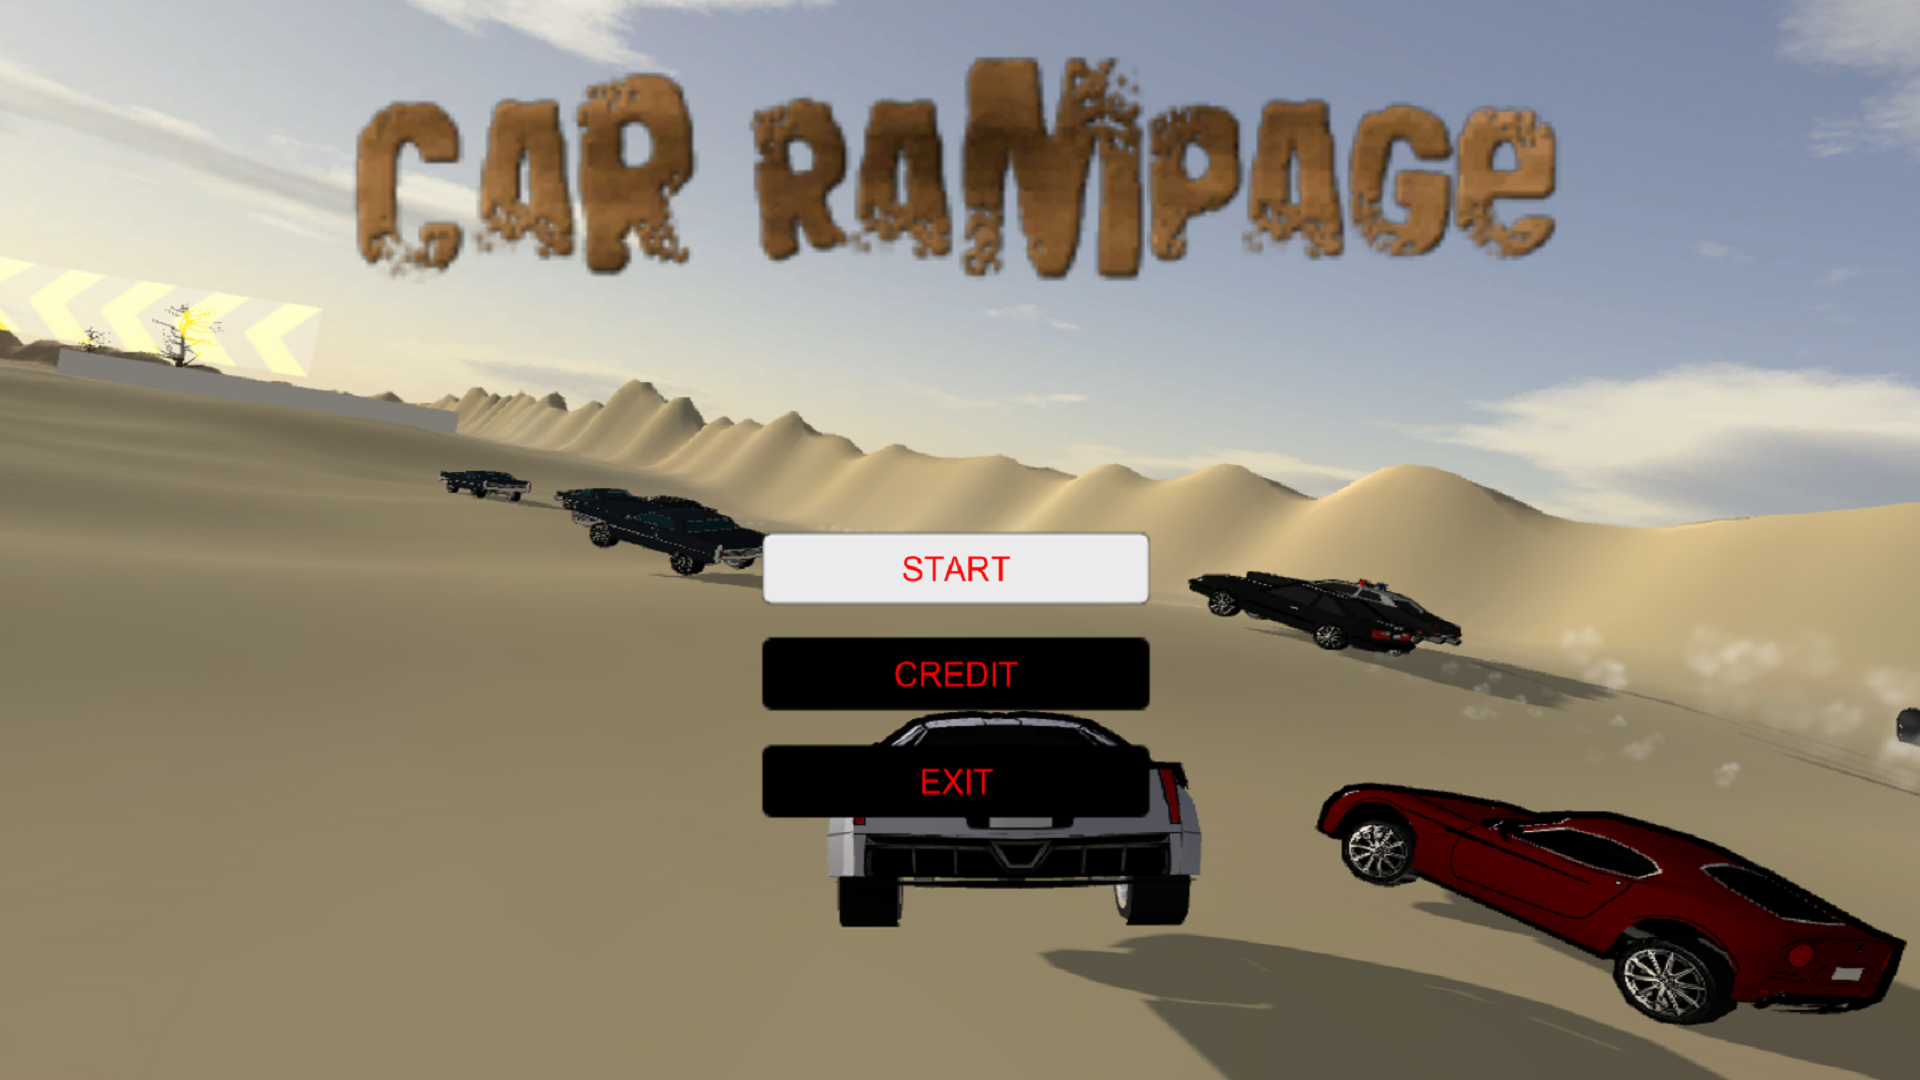
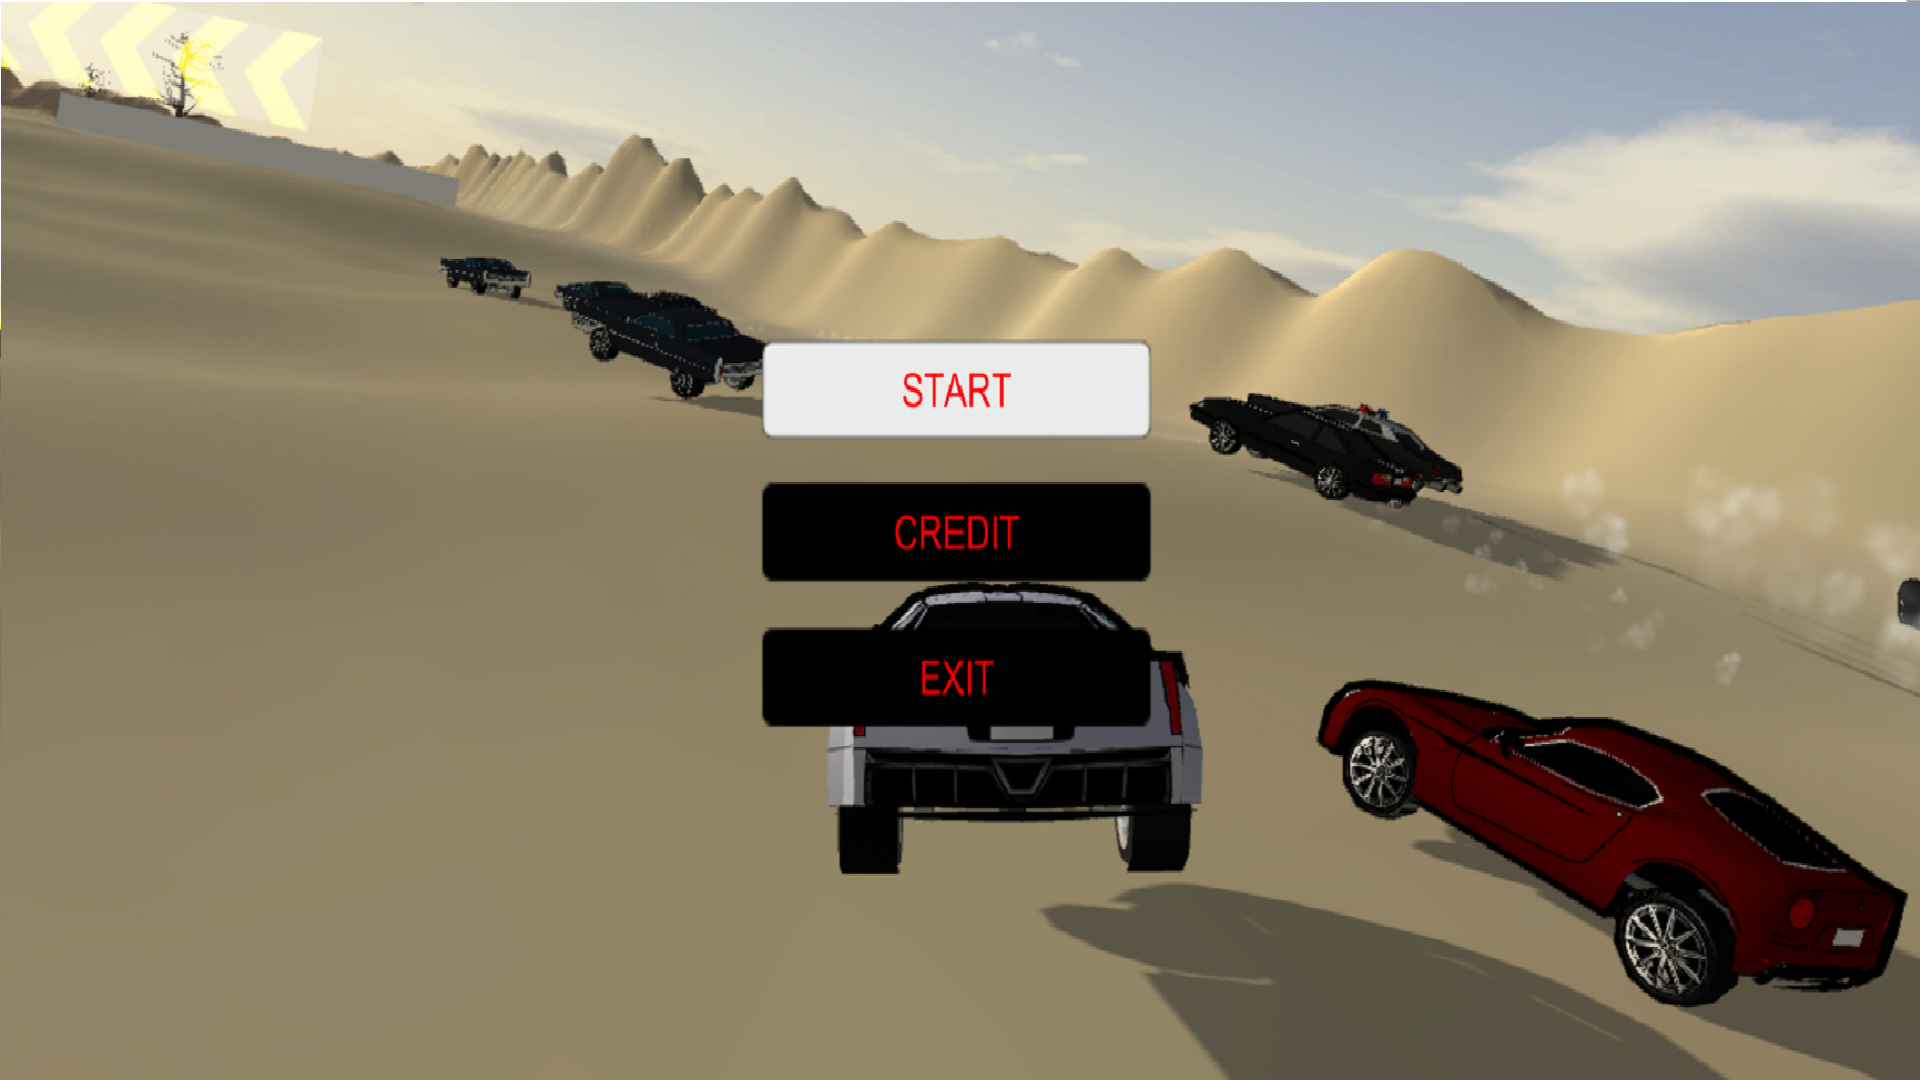
some final/ish touches to the home and about page

diff --git a/about.html b/about.html
@@ -18,20 +18,23 @@
                 </ul>
             </div>
             <div class="header">
-                <!--insert title image-->
+                <img src="images/gametitle.png">
             </div>
             <div class="pagenav">
                 <ul>
                     <li><a href=#game>About this game</a></li>
-                    <li><a href=#devs>About the devs</a></li>
+                    <li><a href=#bginfo>Background Info</a></li>
                     <li><a href=#reqs>System Requirements</a></li>
                 </ul>
+                <a class="smlinks" href="https://www.facebook.com" target="_blank"><img src="images/facebook.png"></a>
+                <a class="smlinks" href="https://twitter.com/" target="_blank"><img src="images/twitter.png"></a>
+                <a class="smlinks" href="https://www.instagram.com/" target="_blank"><img src="images/instagram.png"></a>
             </div>
             <div class="content">
-                <h1>About</h1>
+                <h1></h1>
                 <h2 id="game">Car Rampage</h2>
                 <div class="gameinfo">
-                    <img src="images/carrampage.jpg">
+                    <img src="images/carrampage2.png">
                     <p>
                         Welcome to Car Rampage! Looking for the race of a life-time? Inspired by Mario Kart, Car Rampage is the classic racing game with a touch of destruction.
                         Use bombs and missiles to obliterate your opponents, time your speed boosts for that clutch 1st place win 
@@ -46,11 +49,12 @@
                         </ul>
                     </p>
                 </div>
-                <h2 id="devs">The Devs</h2>
-                <div class="devinfo">
+                <h2 id="bginfo">Background Info</h2>
+                <div class="bginfo">
                     <img src="images/tiremarksbkg.jpg">
                     <p>
-                        This is the text for the about devs section
+                        Car Rampage was created as a school project. As one of the designers/developers for this game, I really enjoyed working with the physics
+                        for the drifting and programming the power-ups.  
                     </p>
                 </div>
                 <h2 id="reqs">System Requirements</h2>
@@ -106,14 +110,3 @@
         </section>
     </body>
 </html>
-
-<!--
-    ideas for page layout/content:
-        1.duplicate top nav from home page
-        2.add a banner image at the top?
-        3.background info on the game
-        4.background info on the developers
-        5.add a 'how to' for downloading and running(with pics)
-        6.System requirements
-        7.add top button if applicable
--->

diff --git a/index.html b/index.html
@@ -18,7 +18,7 @@
                 </ul>
             </div>
             <div class="header">
-                <!--insert title image here-->
+                <img src="images/gametitle.png">
             </div>
             <div class="pagenav">
                 <ul>
@@ -26,6 +26,9 @@
                     <li><a href=#patch-notes>Patch-notes</a></li>
                     <li><a href=#events>Events</a></li>
                 </ul>
+                <a class="smlinks" href="https://www.facebook.com" target="_blank"><img src="images/facebook.png"></a>
+                <a class="smlinks" href="https://twitter.com/" target="_blank"><img src="images/twitter.png"></a>
+                <a class="smlinks" href="https://www.instagram.com/" target="_blank"><img src="images/instagram.png"></a>
             </div>
             <div class="content">
                 <h1 id="news">NEWS</h1>

diff --git a/stylesheet.css b/stylesheet.css
@@ -62,9 +62,12 @@ div {
 /*header styles*/
 .header {
     height: 100px;
-    background-color: darkblue;
-    opacity: 0.2;
+    /*opacity: 0.2;*/
     color: red;
+}
+.header img{
+    width: inherit;
+    height: inherit;
 }
 /*page navigation style*/
 .pagenav {
@@ -83,6 +86,15 @@ div {
     float: left;
     padding-right: 20px;
     position: relative;
+}
+.smlinks img{
+    /*position: absolute;
+    right: 0;*/
+    width: 24px;
+    height: 22px;
+    float: right;
+    padding-left: 10px;
+    padding-right: 10px;
 }
 .pagenav a {
     text-decoration: none;
@@ -142,7 +154,7 @@ div {
 /*##########################
 ##      About styles      ##
 ##########################*/
-.gameinfo, .devinfo, .sysreq {
+.gameinfo, .bginfo, .sysreq {
     background-color: rgba(0, 0, 0, 0.5);
     width: 95%; 
     margin: auto;
